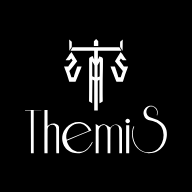
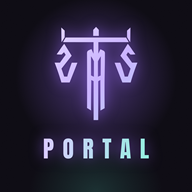
2026-10-28 09:05 新しいアイコン・左上のロゴ（黒＋紫の光＋PORTAL）

diff --git a/index.html b/index.html
@@ -3,20 +3,20 @@
 <head>
 <meta name="viewport" content="width=device-width, initial-scale=1, viewport-fit=cover, maximum-scale=1, user-scalable=no">
 <link rel="manifest" href="manifest.webmanifest">
-<link rel="icon" href="favicon.ico?v=2" sizes="any">
-<link rel="icon" type="image/png" sizes="32x32" href="icons/favicon-32.png?v=2">
-<link rel="icon" type="image/png" sizes="192x192" href="icons/icon-192.png?v=2">
-<link rel="apple-touch-icon" href="icons/apple-touch-icon.png?v=2">
+<link rel="icon" href="favicon.ico?v=3" sizes="any">
+<link rel="icon" type="image/png" sizes="32x32" href="icons/favicon-32.png?v=3">
+<link rel="icon" type="image/png" sizes="192x192" href="icons/icon-192.png?v=3">
+<link rel="apple-touch-icon" href="icons/apple-touch-icon.png?v=3">
 <meta property="og:type" content="website">
 <meta property="og:site_name" content="Themis Portal">
 <meta property="og:title" content="Themis Portal">
 <meta property="og:description" content="Themisスタッフ専用アプリ（打刻・シフト・請求書・TP）">
 <meta property="og:url" content="https://themis-portal.github.io/">
-<meta property="og:image" content="https://themis-portal.github.io/icons/og.png?v=2">
+<meta property="og:image" content="https://themis-portal.github.io/icons/og.png?v=3">
 <meta property="og:image:width" content="1200">
 <meta property="og:image:height" content="630">
 <meta name="twitter:card" content="summary_large_image">
-<meta name="twitter:image" content="https://themis-portal.github.io/icons/og.png?v=2">
+<meta name="twitter:image" content="https://themis-portal.github.io/icons/og.png?v=3">
 <meta name="apple-mobile-web-app-capable" content="yes">
 <meta name="mobile-web-app-capable" content="yes">
 <meta name="apple-mobile-web-app-title" content="Themis Portal">
@@ -82,14 +82,16 @@ document.documentElement.classList.add("fonts-wait");
     --stamp: #6cc4b8; --stamp-red: #f08e76; --break: #e2b55a; --dep: #9da4e8; --accent: #6cc4b8; --ok: #7ccb98; --sat: #8fb0ee; --sun: #f08e76; --today: #1f3330; --hol-bg: #33241f;
     color-scheme: dark;
   }
-  :root:not([data-theme="light"]) .logo { filter: invert(1); }
+  :root:not([data-theme="light"]) .logo:not(.brand .logo, .sp-logo) { filter: invert(1); }
+  :root:not([data-theme="light"]) .brand-name { --bn1: #d9caff; --bn2: #8ff0dc; }
 }
 :root[data-theme="dark"] {
   --paper: #151a21; --card: #1d232c; --ink: #ece7de; --ink-soft: #9ba3ae; --rule: #313945;
   --stamp: #6cc4b8; --stamp-red: #f08e76; --break: #e2b55a; --dep: #9da4e8; --accent: #6cc4b8; --ok: #7ccb98; --sat: #8fb0ee; --sun: #f08e76; --today: #1f3330; --hol-bg: #33241f;
   color-scheme: dark;
 }
-:root[data-theme="dark"] .logo { filter: invert(1); }
+:root[data-theme="dark"] .logo:not(.brand .logo, .sp-logo) { filter: invert(1); }
+:root[data-theme="dark"] .brand-name { --bn1: #d9caff; --bn2: #8ff0dc; }
 * { box-sizing: border-box; }
 /* phones must not enlarge text on their own; it breaks fixed layouts like the invoice */
 /* manipulation drops double-tap zoom, so quick taps on buttons don't blow the page up (pinch is handled in the script) */
@@ -730,6 +732,9 @@ body:has(#member-ui:not([hidden])) .brand-btns { display: none; }
 .brand { display: flex; flex-wrap: wrap; align-items: flex-end; justify-content: space-between; gap: 10px 16px; border-bottom: 1px solid var(--rule); padding-bottom: 12px; }
 .brand-mark { display: flex; align-items: center; gap: 14px; min-width: 0; }
 .logo { display: block; height: 48px; width: auto; }
+.brand .logo, .sp-logo { border-radius: 23%; box-shadow: 0 0 0 1px rgba(196,168,255,.35), 0 6px 18px rgba(123,77,255,.35); }
+.brand-name { --bn1: #6a3fe0; --bn2: #148f78; background: linear-gradient(90deg, var(--bn1), var(--bn2)); -webkit-background-clip: text; background-clip: text; color: transparent !important; border-left-color: color-mix(in srgb, var(--bn1) 60%, transparent) !important; }
+.brand-name b { font-weight: 400; letter-spacing: .28em; font-size: .82em; }
 /* the name and its rule sit a little lower than the logo's middle */
 .brand-name { font-size: 20px; font-weight: 700; letter-spacing: .04em; color: var(--ink); white-space: nowrap; line-height: 1.1; padding: 4px 0 4px 14px; border-left: 2px solid var(--accent); transform: translateY(4px); }
 .brand-who { font-size: 18px; font-weight: 700; color: var(--ink); letter-spacing: .06em; overflow-wrap: anywhere; text-align: right; min-width: 0; }
@@ -2216,7 +2221,7 @@ html, body { touch-action: manipulation; }
 <div id="scroller">
 <div class="wrap">
   <header class="brand">
[2 lines of base64/hex data omitted]
     <div class="brand-side"><span class="brand-who" id="who"></span><div class="brand-btns"><button type="button" class="tool" id="adminbtn" hidden>管理者画面</button><button type="button" class="tool" id="chpass" hidden>パスワード変更</button><button type="button" class="tool" id="logout" hidden>ログアウト</button></div></div>
   </header>
   <!-- the opening screen (at the top of body) takes the header's logo; it is shown only when the app is newly opened,

diff --git a/sw.js b/sw.js
@@ -1,4 +1,4 @@
-const CACHE = "themis-portal-20261028011108";
+const CACHE = "themis-portal-20261028090529";
 const SHELL = ["./", "./index.html", "./config.js", "./manifest.webmanifest", "./icons/icon-192.png", "./icons/apple-touch-icon.png"];
 self.addEventListener("install", (e) => { self.skipWaiting(); e.waitUntil(caches.open(CACHE).then((c) => c.addAll(SHELL)).catch(() => {})); });
 self.addEventListener("activate", (e) => e.waitUntil(
